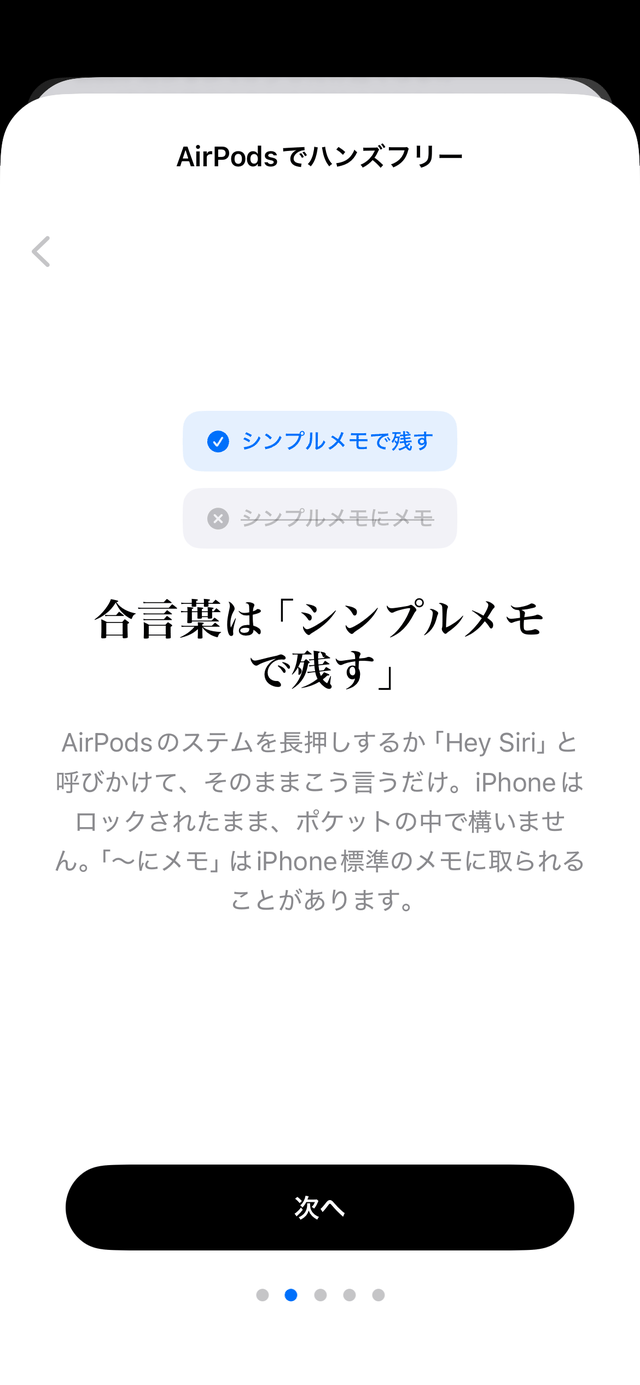
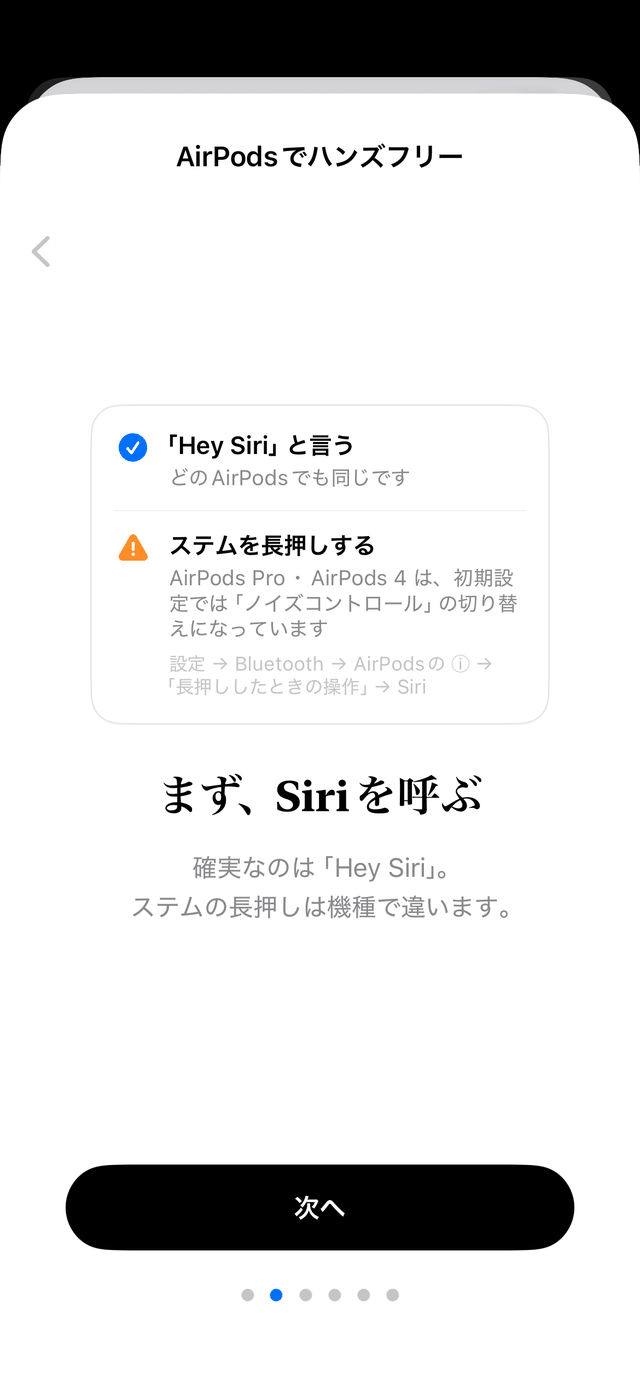
fix(siri): アプリ内ガイドの帯を実機の6画面に直し、英語版を追加する (#463)
* fix(siri): アプリ内ガイドの帯を実機の6画面に直す（英語版を追加・画像コミット待ち）

`/siri/` の「実機の画面で見る」は「ガイドそのままの5画面」と書いているが、
アプリのガイドは **6画面**ある。帯が実物と食い違ったまま出ている。

## 5画面ではなく6画面

`AirPodsTutorialViewController.swift` の並びは言語で分岐しない:

    slideKeyOrder = ["flow", "invoke", "phrase", "dialogue", "delivery", "checklist"]

`invoke`（「まず、Siriを呼ぶ」）は **v5.6.0 / 2026-08-07** で `flow` の直後に
入った。帯の5枚は **2026-08-06（#428）** 撮影で、その前日の版にあたる。
現物のページャは5点、いまのアプリは6点。

英語版PR #455 は「"First, summon Siri" は日本語版に無いため入れていない」と
書いていたが、これは誤り。`ja.lproj` に `airpods_tutorial.invoke.*` は
揃っており、日本語アプリにも同じ位置で出る。日本語の帯が5枚なのは
「日本語版に無いから」ではなく「6画面になる前に撮ったから」。

## 5枚とも撮り直しが要る（差し替えであって追加ではない）

v5.6.0 は文面も入れ替えている。いま出ている2枚目の本文

    「AirPodsのステムを長押しするか「Hey Siri」と呼びかけて、そのまま…」

は、まさに v5.6.0 が **やめた**書き方そのもの。AirPods Pro・AirPods 4 は
ステム長押しの初期設定がノイズコントロールで、長押ししてもSiriは出ない。
音だけ鳴るので失敗に気づけず、アプリ側からも観測できない。機種差に触れずに
長押しと「Hey Siri」を並列に書くのをやめたのが `invoke` の追加意図であり、
その古い版のスクショをLPが今も配っている。

1枚目・4枚目の本文も現行と違う（例: `flow.body` は現行
「iPhoneはポケットのまま。／合言葉ひとつで届きます。」）。ページャの点数も
5→6で全画面変わる。**5枚とも差し替え**になる。

## この変更で入れたもの

- 帯を `data-lang` で日英に分け、6枚ずつ参照する
- リード文を6画面に直し、「Siriの呼び方」を先頭の案内に加える
- 英語リードから "(Japanese UI)" の断り書きを外す
- alt を現行の `Localizable.strings` から起こし直す
- `.shot-strip` の詳細度を上げる（#455 由来）。`[data-lang].active{display:revert}`
  (0,2,0) が `display:flex` (0,1,0) に勝つため、併記が無いと言語切替後に
  帯が縦積みになる。同じ事故の注意書きが `.flow-steps` に既にある

## 画像はまだ入っていない — マージ不可

必要なのは `assets/img/siri/` に 640x1385 PNG で:

    onboarding-1..6.png       日本語UI・6画面すべて撮り直し
    onboarding-en-1..6.png    英語UI・6画面
[…]

diff --git a/siri/index.html b/siri/index.html
@@ -467,22 +467,24 @@
           <span lang="en" data-lang="en">See it on a real device</span>
         </h2>
         <p class="lp-section__lead">
-          <span lang="ja" data-lang="ja">アプリ内の「AirPodsでハンズフリー」ガイドそのままの5画面。合言葉・2ターンの会話・届き先・事前チェックまで、この順に案内されます（横にスクロール）。</span>
-          <span lang="en" data-lang="en">The in-app "Hands-free with AirPods" guide, all five screens: the magic phrase, the two-turn dialog, where memos land, and the pre-flight checklist. Scroll sideways.</span>
+          <span lang="ja" data-lang="ja">アプリ内の「AirPodsでハンズフリー」ガイドそのままの6画面。Siriの呼び方・合言葉・2ターンの会話・届き先・事前チェックまで、この順に案内されます（横にスクロール）。</span>
+          <span lang="en" data-lang="en">The in-app "Hands-free with AirPods" guide, all six screens: how to summon Siri, the magic phrase, the two-turn dialog, where memos land, and the pre-flight checklist. Scroll sideways.</span>
         </p>
         <div class="shot-strip" data-lang="ja">
-          <img src="/assets/img/siri/onboarding-1.png" width="640" height="1385" loading="lazy" alt="アプリ内ガイド1: AirPodsから、Obsidianへ。— Obsidian・話す・メールの流れ図。ポケットのiPhoneはそのまま">
-          <img src="/assets/img/siri/onboarding-2.png" width="640" height="1385" loading="lazy" alt="アプリ内ガイド2: 合言葉は「シンプルメモで残す」。「〜にメモ」はiPhone標準のメモに取られることがある">
-          <img src="/assets/img/siri/onboarding-3.png" width="640" height="1385" loading="lazy" alt="アプリ内ガイド3: 「何をメモしますか？」に答えるだけ — Siriとの2ターンの会話例。アプリは開かない">
-          <img src="/assets/img/siri/onboarding-4.png" width="640" height="1385" loading="lazy" alt="アプリ内ガイド4: メールとObsidianに同時に届く。デイリーノートに自動追記・圏外でも消えない">
-          <img src="/assets/img/siri/onboarding-5.png" width="640" height="1385" loading="lazy" alt="アプリ内ガイド5: 3つだけ確認しておく — 送信先メールの認証・Obsidian連携・ショートカットAppでSiriがオン">
+          <img src="/assets/img/siri/onboarding-1.png" width="640" height="1385" loading="lazy" alt="アプリ内ガイド1: AirPodsから、Obsidianへ。— Obsidian・話す・メールの流れ図。iPhoneはポケットのまま、合言葉ひとつで届く">
+          <img src="/assets/img/siri/onboarding-2.png" width="640" height="1385" loading="lazy" alt="アプリ内ガイド2: まず、Siriを呼ぶ — 確実なのは「Hey Siri」。AirPods Pro・AirPods 4 はステム長押しの初期設定がノイズコントロールなので、設定から変える">
+          <img src="/assets/img/siri/onboarding-3.png" width="640" height="1385" loading="lazy" alt="アプリ内ガイド3: 合言葉は「シンプルメモで残す」— ○「シンプルメモで残す」／×「シンプルメモにメモ」。Siriが応えたら、そのまま言うだけ">
+          <img src="/assets/img/siri/onboarding-4.png" width="640" height="1385" loading="lazy" alt="アプリ内ガイド4: 「何をメモしますか？」に答えるだけ — Siriとの2ターンの会話例。話した内容がそのまま本文になり、アプリは開かない">
+          <img src="/assets/img/siri/onboarding-5.png" width="640" height="1385" loading="lazy" alt="アプリ内ガイド5: メールとObsidianに、同時に届く — いつもの受信箱へ・デイリーノートに自動追記・圏外でも消えない">
+          <img src="/assets/img/siri/onboarding-6.png" width="640" height="1385" loading="lazy" alt="アプリ内ガイド6: 3つだけ、確認しておく — 送信先メールの認証・Obsidian連携・ショートカットAppでSiriをオン">
         </div>
         <div class="shot-strip" data-lang="en">
-          <img src="/assets/img/siri/onboarding-en-1.png" width="640" height="1385" loading="lazy" alt="In-app guide 1: From AirPods to Obsidian — a flow diagram of Obsidian, Speak and Email. The phone stays in your pocket">
-          <img src="/assets/img/siri/onboarding-en-2.png" width="640" height="1385" loading="lazy" alt="In-app guide 2: Say &quot;send a memo with Simple Memo&quot; — the phrase to use once Siri answers">
-          <img src="/assets/img/siri/onboarding-en-3.png" width="640" height="1385" loading="lazy" alt="In-app guide 3: Just answer &quot;What do you want to note down?&quot; — a two-turn exchange with Siri. The app never opens">
-          <img src="/assets/img/siri/onboarding-en-4.png" width="640" height="1385" loading="lazy" alt="In-app guide 4: It lands in email and Obsidian at once — appended to the daily note, and nothing is lost offline">
-          <img src="/assets/img/siri/onboarding-en-5.png" width="640" height="1385" loading="lazy" alt="In-app guide 5: Three things to check — destination email verified, Obsidian integration, and Siri turned on in the Shortcuts app">
+          <img src="/assets/img/siri/onboarding-en-1.png" width="640" height="1385" loading="lazy" alt="In-app guide 1: From AirPods to Obsidian — a flow diagram of Obsidian, Speak and Email. The phone stays pocketed; one phrase and it is delivered">
+          <img src="/assets/img/siri/onboarding-en-2.png" width="640" height="1385" loading="lazy" alt="In-app guide 2: First, summon Siri — &quot;Hey Siri&quot; always works; on AirPods Pro and AirPods 4 the stem press defaults to Noise Control, so switch it to Siri in Settings">
+          <img src="/assets/img/siri/onboarding-en-3.png" width="640" height="1385" loading="lazy" alt="In-app guide 3: Say &quot;send a memo with Simple Memo&quot; — the phrase to use, and &quot;Note this in Simple Memo&quot; as the one to avoid. Once Siri answers, just say it">
+          <img src="/assets/img/siri/onboarding-en-4.png" width="640" height="1385" loading="lazy" alt="In-app guide 4: Just answer &quot;What do you want to note down?&quot; — a two-turn exchange with Siri. What you say becomes the memo and the app never opens">
+          <img src="/assets/img/siri/onboarding-en-5.png" width="640" height="1385" loading="lazy" alt="In-app guide 5: It lands in email and Obsidian at once — straight to your inbox, appended to your daily note, and nothing is lost offline">
+          <img src="/assets/img/siri/onboarding-en-6.png" width="640" height="1385" loading="lazy" alt="In-app guide 6: Three things to check — destination email verified, Obsidian integration, and Siri turned on in the Shortcuts app">
         </div>
       </section>
 
